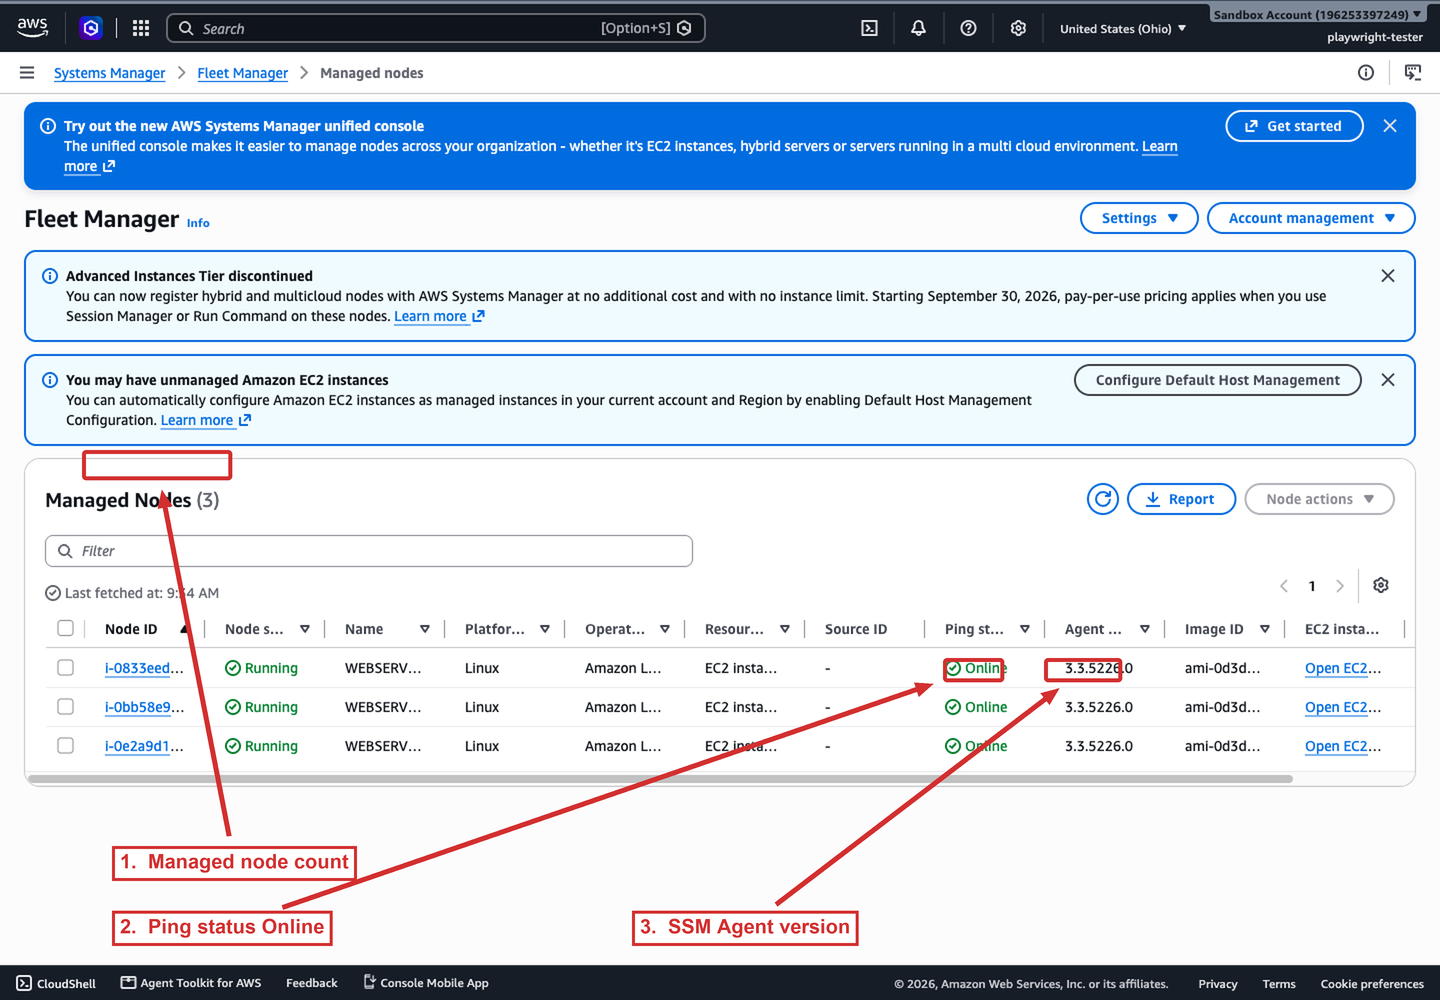
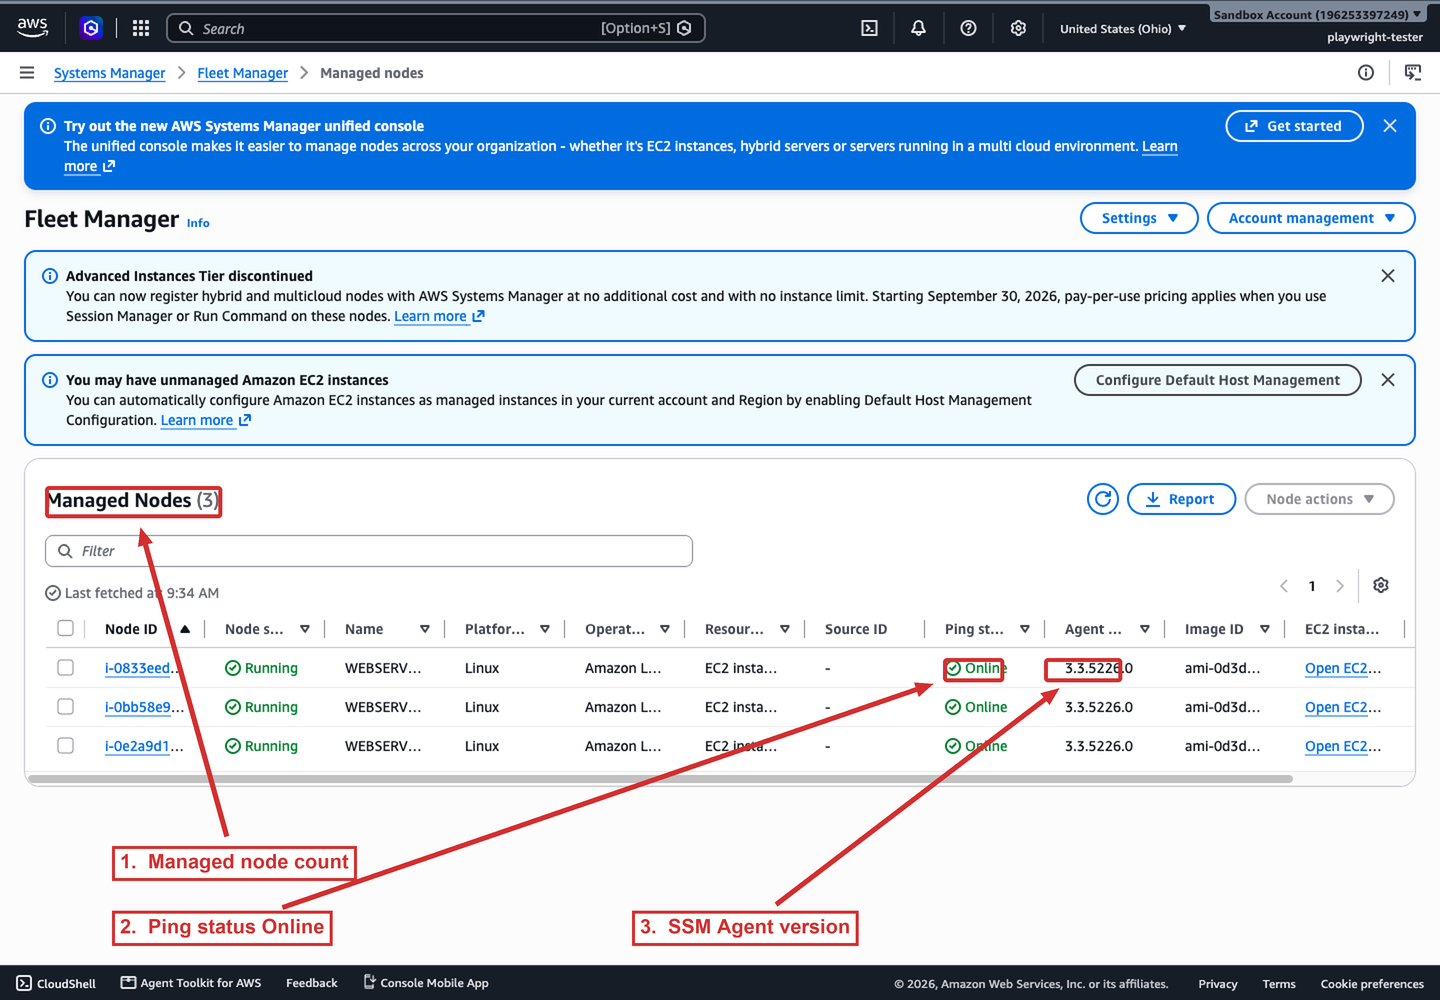
docs: fix Systems Manager screenshot annotations
Reposition the Fleet Manager managed-node count highlight to hug the heading; move the Session Manager reasons label so no arrow crosses the target-table highlight; narrow the Run Command output highlight to the Status column so status and View-output arrows do not cross the table box; update the matching caption.

Changed region(s): [[0.0312, 0.434, 0.1562, 0.837]]

diff --git a/02-services/10-management-governance/15-systems-manager/03-session-run-state.md b/02-services/10-management-governance/15-systems-manager/03-session-run-state.md
@@ -41,7 +41,7 @@ Once the command runs, the execution page is where you watch it land. Each node 
 
 ![Run Command execution page showing command status and per-node Success results](../../../assets/images/screenshots/ssm/11-ssm-run-command-output.png)
 
-*The Run Command execution page. **Command status** (1) summarizes the whole invocation (overall status, detailed status, and counts for targets, completed, errors, and delivery timeouts). The **Targets and outputs** table (2) shows the result per node: here two nodes report **Success** and one is still **In Progress**, which is the eventual-consistency behavior described above. **View output** (3) opens the stdout for a single node; without it, the console truncates the output at 24,000 characters.*
+*The Run Command execution page. **Command status** (1) summarizes the whole invocation (overall status, detailed status, and counts for targets, completed, errors, and delivery timeouts). The per-node **Status** column (2) in Targets and outputs shows the result for each node: here two nodes report **Success** and one is still **In Progress**, which is the eventual-consistency behavior described above. **View output** (3) opens the stdout for a single node; without it, the console truncates the output at 24,000 characters.*
 
 ## State Manager
 
